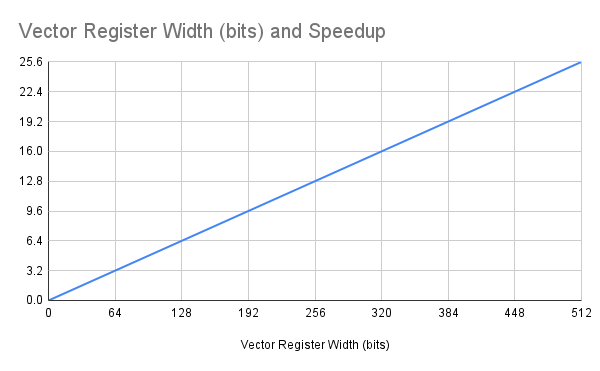
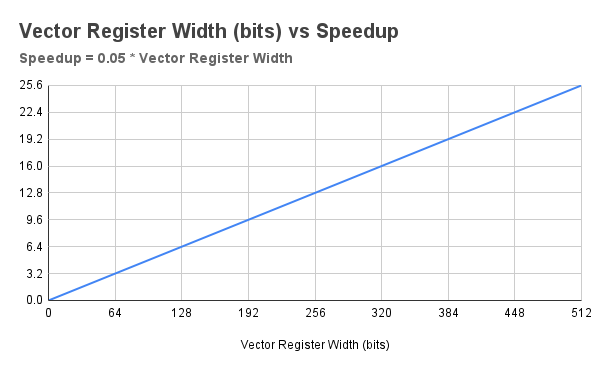
update readme.md: add build toolchain and various clarification edits

diff --git a/challenge.c b/challenge.c
@@ -61,7 +61,7 @@ void q15_axpy_rvv(const int16_t *a, const int16_t *b,
 
     */
 
-    // baseline software engineering practice: give readable meaningful to variables
+    // baseline software engineering practice: give readable meaningful names to variables
     int elementCount = n;
 
     // hardware vector length (VL)
@@ -93,9 +93,9 @@ void q15_axpy_rvv(const int16_t *a, const int16_t *b,
         // 7. sum (vectorA + vectorMultiply)
         vint32m2_t vectorSum = __riscv_vadd_vv_i32m2(vectorA, vectorMultiplied, vectorLength);
 
-        // 8. *crucial* narrow the int32_t to int16_t by clamping [-32768, 32767]
+        // 8. *crucial* narrow the int32_t to int16_t by first saturating or clamping [-32768, 32767]
         // argument 2 set right shift amount: we do 0.
-        // arfument 3 sets the rounding mode: 0 means trucnate.
+        // arfument 3  becomes irrelevant.
         vint16m1_t vectorY = __riscv_vnclip_wx_i16m1(vectorSum, 0, 0, vectorLength);
 
         // 9. store `vectorY` into array `y`

diff --git a/README.md b/README.md
@@ -1,6 +1,7 @@
 # My Solution to the RISC-V AudioMark™ Mentorship Challenge
 
 by Abdullah Fatota
+
 [https://github.com/new-AF/challenge-rvv-audiomark-mentorship](https://github.com/new-AF/challenge-rvv-audiomark-mentorship)
 
 ## The challenge
@@ -96,7 +97,7 @@ void q15_axpy_rvv(const int16_t *a, const int16_t *b,
 
     */
 
-    // baseline software engineering practice: give readable meaningful to variables
+    // baseline software engineering practice: give readable meaningful names to variables
     int elementCount = n;
 
     // hardware vector length (VL)
@@ -128,9 +129,9 @@ void q15_axpy_rvv(const int16_t *a, const int16_t *b,
         // 7. sum (vectorA + vectorMultiply)
         vint32m2_t vectorSum = __riscv_vadd_vv_i32m2(vectorA, vectorMultiplied, vectorLength);
 
-        // 8. *crucial* narrow the int32_t to int16_t by clamping [-32768, 32767]
+        // 8. *crucial* narrow the int32_t to int16_t by first saturating or clamping [-32768, 32767]
         // argument 2 set right shift amount: we do 0.
-        // arfument 3 sets the rounding mode: 0 means trucnate.
+        // arfument 3  becomes irrelevant.
         vint16m1_t vectorY = __riscv_vnclip_wx_i16m1(vectorSum, 0, 0, vectorLength);
 
         // 9. store `vectorY` into array `y`
@@ -143,7 +144,13 @@ void q15_axpy_rvv(const int16_t *a, const int16_t *b,
 
 ### Correctness output
 
-![Correctness output screenshot of running the vectorized ELF binary on the QEMU Simulator](./correctness-output.PNG)
+![Correctness output screenshot of running the vectorized ELF binary on the QEMU risc-v 32bit emulator](./correctness-output.PNG)
+
+The provided compiled 32bit ELF was run on QEMU as following:
+
+```bash
+qemu-riscv32 ./challenge.elf
+```
 
 ### Walkthrough
 
@@ -372,6 +379,54 @@ The Speedup = `12 * vectorLength / 15`
 
 ![Plot of the speedup Vector Register Width (bits) on x-axis, Speedup on Y-axis](./speedup-1.png)
 
-## Building the toolchain
+## Building and running my solution
 
-I opted to build the [latest official GCC toolchain provided by RISC-V International themselves](https://github.com/riscv-collab/riscv-gnu-toolchain)
+I opted to build the [latest official GCC toolchain provided by RISC-V International themselves](https://github.com/riscv-collab/riscv-gnu-toolchain).
+
+It takes around 6.5GB disk space once `make` is done cloning the GitHub repo. Building itself takes around 6 hours on my weak laptop.
+
+Here are the commands I used to build `riscv32-unknown-elf-gcc` on my _Linux Mint 22.3_ installation and successfully compile `./challenge.c` with both the reference and my vectorized solution:
+
+```bash
+cd ~
+mkdir build-here-riscv
+
+# Install the userland QEMU emulator for RISC-V 32
+sudo apt install qemu-user
+
+# Install the dependencies for GCC
+sudo apt-get install autoconf automake autotools-dev curl python3 python3-pip python3-tomli libmpc-dev libmpfr-dev libgmp-dev gawk build-essential bison flex texinfo gperf libtool patchutils bc zlib1g-dev libexpat-dev ninja-build git cmake libglib2.0-dev libslirp-dev libncurses-dev
+
+git clone https://github.com/riscv-collab/riscv-gnu-toolchain
+cd riscv-gnu-toolchain
+./configure --prefix=/home/YOUR_USERNAME/build-here-riscv --with-arch=rv32gcv --with-abi=ilp32d
+
+# This will take aruond 6.5GB disk space and 6 hours on a laptop
+make
+
+# So you can run `riscv32-unknown-elf-gcc` from anywhere from the terminal
+echo 'export PATH=/home/af/build-here-riscv/bin:$PATH' >> ~/.bashrc
+source ~/.bashrc
+
+# Confirm the Vector instructions were installed
+# You should see for example
+#define __riscv_v 1000000
+echo | riscv32-unknown-elf-gcc -march=rv32gcv -mabi=ilp32d -dM -E - | grep __riscv_v
+
+# clone my solution
+cd ~
+git clone https://github.com/new-AF/challenge-rvv-audiomark-mentorship
+cd challenge-rvv-audiomark-mentorship
+
+# compile it
+riscv32-unknown-elf-gcc -O2 -march=rv32gcv -mabi=ilp32d -o challenge.elf challenge.c
+
+# run it
+qemu-riscv32 ./challenge.elf
+```
+
+After running `qemu-riscv32 ./challenge.elf` you should see an output similar to below:
+
+![Correctness output screenshot of running the vectorized ELF binary on the QEMU risc-v 32bit emulator](./correctness-output.PNG)
+
+## References
